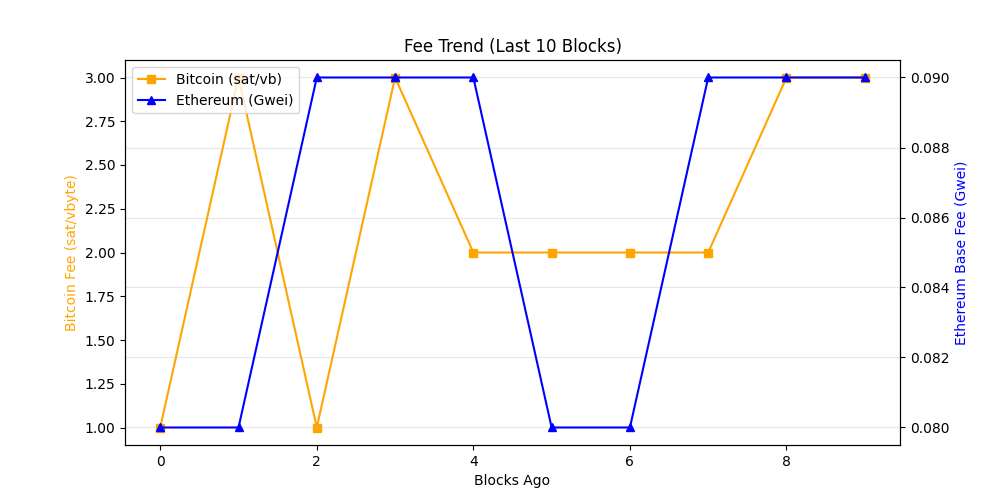
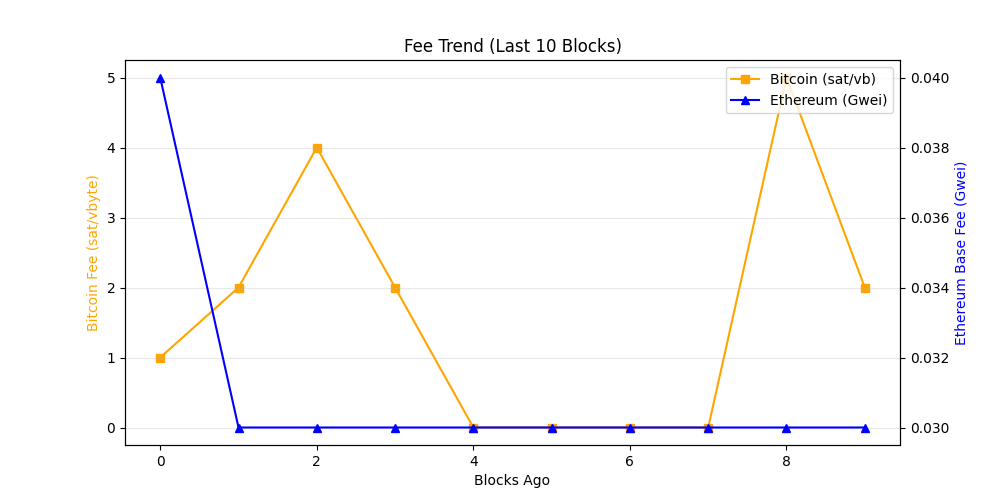
chore: update on-chain dashboard

diff --git a/README.md b/README.md
@@ -19,7 +19,7 @@ The README itself acts as the dashboard and is regenerated automatically on a 6 
 demonstrating a production-style, infrastructure-focused observability workflow rather
 than a traditional UI-driven approach.
 
-_Last updated: 2026-03-06 19:02 UTC_
+_Last updated: 2026-03-07 02:44 UTC_
 
 ## API Usage (GetBlock.io)
 - Calls used: **24**
@@ -27,8 +27,8 @@ _Last updated: 2026-03-06 19:02 UTC_
 ## Network Metrics
 | Chain | Block Height | TX Count | TPS (10 blk avg) | Block Util | Avg Fee |
 |------|-------------|----------|------------------|------------|---------|
-| Ethereum | 24600377 | 319 | 26.58 | 61.02% | 0.1 Gwei |
-| Bitcoin | 939620 | 2837 | 4.18 | 99.8% | N/A |
+| Ethereum | 24602670 | 218 | 18.17 | 72.78% | 0.0 Gwei |
+| Bitcoin | 939655 | 3265 | 6.14 | 99.8% | N/A |
 
 ## Visuals
 ### Transactions Trend
@@ -43,11 +43,11 @@ _Last updated: 2026-03-06 19:02 UTC_
 ## Whale Alerts (latest block)
 - Transaction hashes are truncated for readability.
 - Full hashes are available in `dashboards/metrics.json`
-- Bitcoin | 225.0 BTC | `381fca8b4ada…`
-- Bitcoin | 388.68 BTC | `5a7d552f0074…`
-- Bitcoin | 118.0 BTC | `aab0ac127f73…`
-- Bitcoin | 385.36 BTC | `451c3f97cf82…`
-- Bitcoin | 246.49 BTC | `d68e8b87d4f0…`
+- Bitcoin | 386.99 BTC | `1fbcdd605e19…`
+- Bitcoin | 900.0 BTC | `5ae9d107e686…`
+- Bitcoin | 198.39 BTC | `76a1985dcaec…`
+- Bitcoin | 4546.2 BTC | `447a942bacc5…`
+- Bitcoin | 600.24 BTC | `456a65bfc752…`
 
 ## Run locally
 
